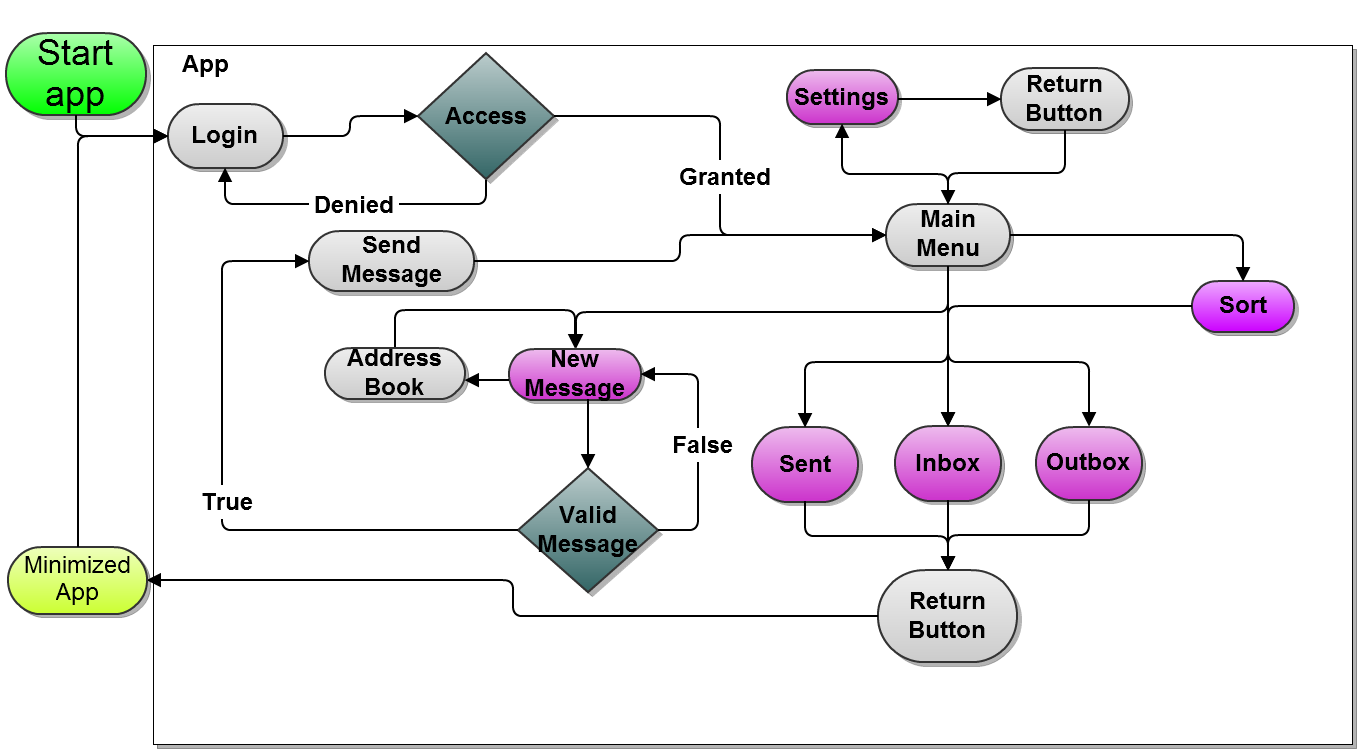
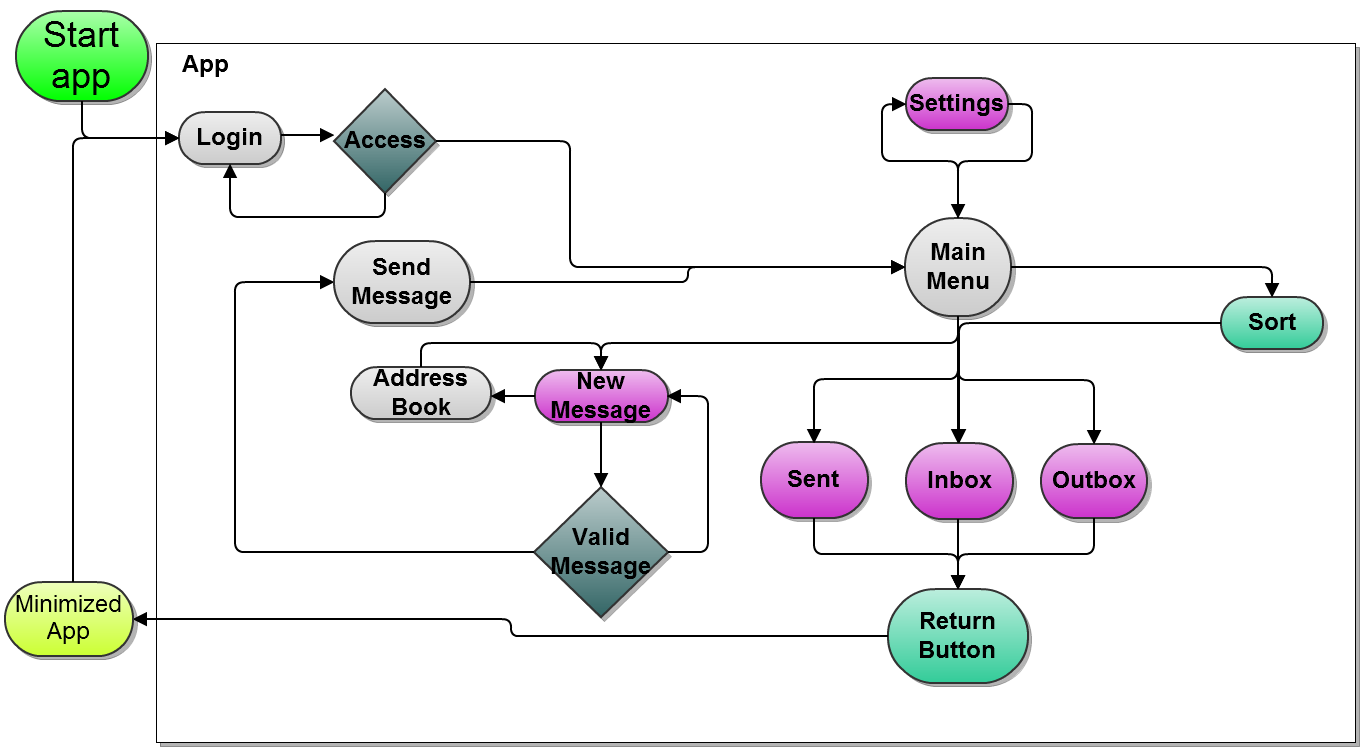
Skrevet om GUI-flowcharten og fikset enda mer på flow-charten.

diff --git a/Project report/architecture.tex b/Project report/architecture.tex
@@ -71,11 +71,6 @@ Regarding communication with external resources as a mail-server, it will be don
 \textbf{Input validation} is always necessary in order to provide a secure service. All input to the XOXOMail application should be validated, this is includes received mail, user-input etc. For mail validation we are going to use \gls{emims} signing and verification provided by bouncycastle. 
 
 \subsection{GUI}
-\begin{figure}
-	\includegraphics[width=\textwidth]{Android_GUI_flow_chart_2}
-	\caption{The logical view of the GUI architecture}
-	\label{fig:logicalGUIview}
-\end{figure}
 
 \subsubsection{Introduction}
 The Android platform specifies a certain way of organizing the application, which we have tried to follow.
@@ -109,6 +104,16 @@ The life cycle of an activity can be seen in figure \ref{fig:lifecycle} at page 
 \end{figure}
 
 All the methods starting with on (onCreate etc.) can be overwritten to administrate what the application should do in the changes of state.
+
+\paragraph{How we did it in our app}
+
+\begin{figure}
+	\includegraphics[width=\textwidth]{Android_GUI_flow_chart_2}
+	\caption{The logical view of the GUI architecture}
+	\label{fig:logicalGUIview}
+\end{figure}
+
+Figure \ref{fig:logicalGUIview} at page \pageref{fig:logicalGUIview} shows the flow in our app. It all starts in the upper left corner at "Start app". The first activity you see is the \textsc{Login Activity}. The user is granted access if a correct username and matching password is entered. He is then sent directly to the main menu, where he can choose to either see messages, send a new message or alter settings. Which messages are shown are based on if you choose \textsc{Sent}, \textsc{Outbox} or \textsc{Inbox}. By pressing \textsc{Sort} he can choose to alter the way the messages are shown. Choosing to send a message can either be done by going into the regular send message view, or the instant message view. Either way, for a message to be sent, it has to be validated. When all fields are valid, the message is sent to the correct recipient. By pressing return button when inside app we are minimizing the app. It will still be running in the background.
 
 \subsubsection{The Android manifest}
 The Android manifest \cite{bib:aman} is what binds the applicaiton together. It is defined in \gls{xml} and details the structure and metadata of the application, its components and requirements. The manifest needs to have nodes for each of the components, which in our case are activities and services. Relevant metadata is the application name, icon and theme. The manifest also declares the permissions the application needs to access protected parts of the \gls{api} and interact with other applications.
